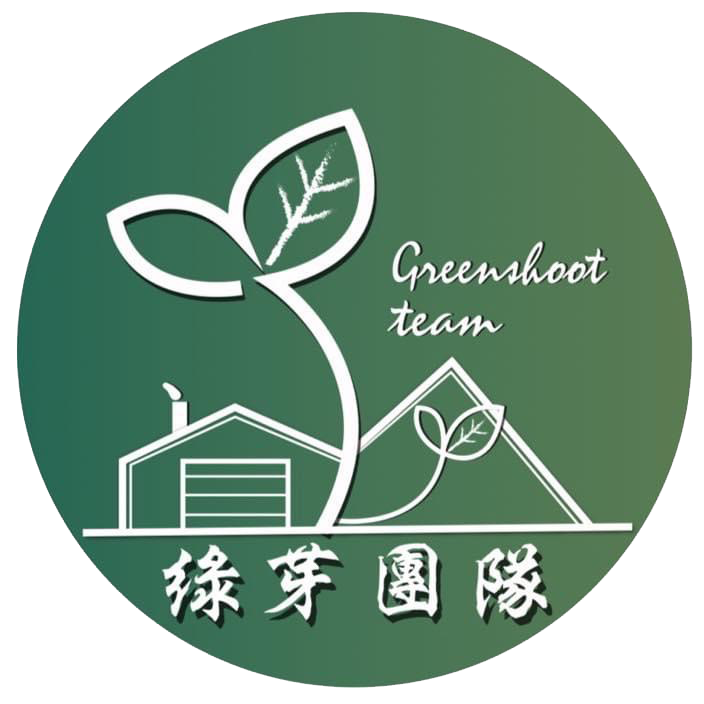
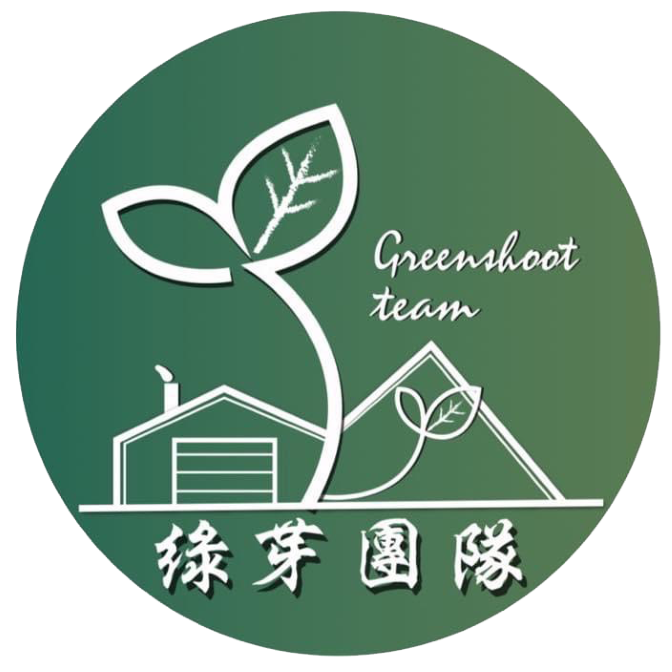
更新

Changed region(s): [[0.75, 0.3438, 0.7812, 0.375]]

diff --git a/index.html b/index.html
@@ -2,7 +2,10 @@
 <html lang="zh-TW">
   <head>
     <meta charset="UTF-8" />
-    <link rel="icon" type="image/svg+xml" href="/綠芽 ICON.png" />
+    
+    <link rel="icon" type="image/png" href="/綠芽 ICON.png?v=3" />
+    <link rel="apple-touch-icon" href="/綠芽 ICON.png?v=3" />
+    
     <meta name="viewport" content="width=device-width, initial-scale=1.0" />
 
     <script>(function(w,d,s,l,i){w[l]=w[l]||[];w[l].push({'gtm.start':
@@ -11,12 +14,21 @@
     'https://www.googletagmanager.com/gtm.js?id='+i+dl;f.parentNode.insertBefore(j,f);
     })(window,document,'script','dataLayer','GTM-NH8H3FTT');</script>
     
+    <script async src="https://www.googletagmanager.com/gtag/js?id=AW-17970862173"></script>
+    <script>
+      window.dataLayer = window.dataLayer || [];
+      function gtag(){dataLayer.push(arguments);}
+      gtag('js', new Date());
+
+      gtag('config', 'AW-17970862173');
+    </script>
     <title>綠芽團隊 | 高雄屏東工業地產專家</title>
     <meta name="description" content="專營高雄、仁武、大寮、屏東廠房租售與工業地買賣。提供最專業的工業地產分析與高效率媒合服務。" />
 
     <meta property="og:title" content="綠芽團隊 | 高雄屏東工業地產專家" />
     <meta property="og:description" content="專營高雄、仁武、大寮、屏東廠房租售與工業地買賣。點擊查看精選廠房物件。" />
-    <meta property="og:image" content="https://kh-pt-factory.com/og-default.jpg" /> <meta property="og:url" content="https://kh-pt-factory.com/" />
+    <meta property="og:image" content="https://kh-pt-factory.com/og-default.jpg" /> 
+    <meta property="og:url" content="https://kh-pt-factory.com/" />
     <meta property="og:type" content="website" />
 
   </head>
